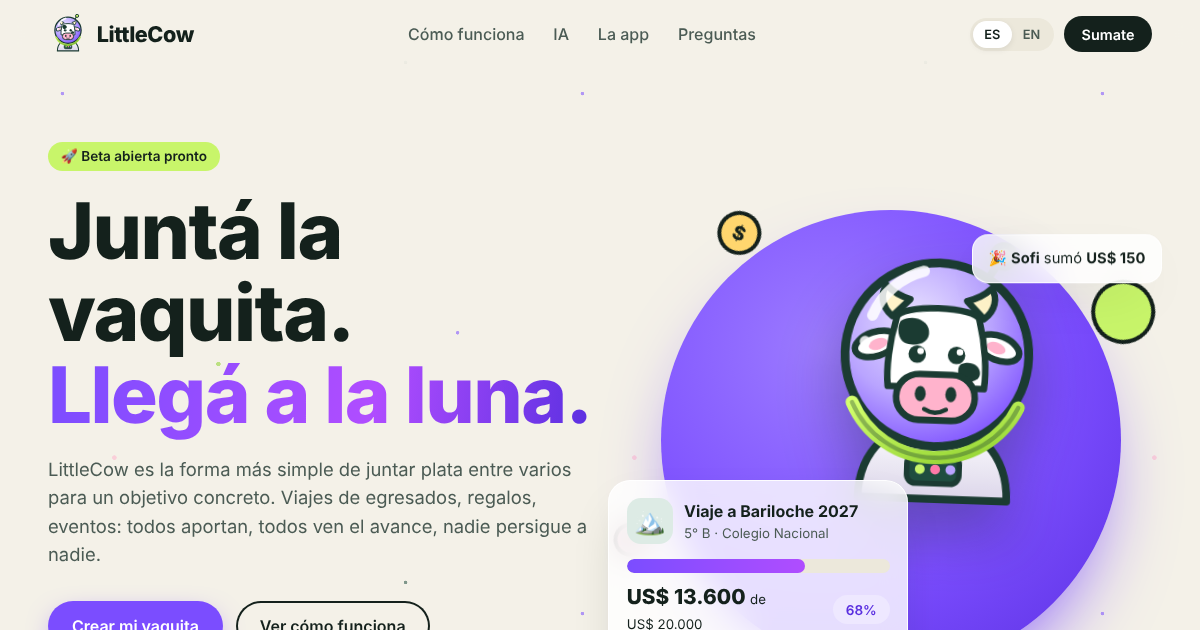
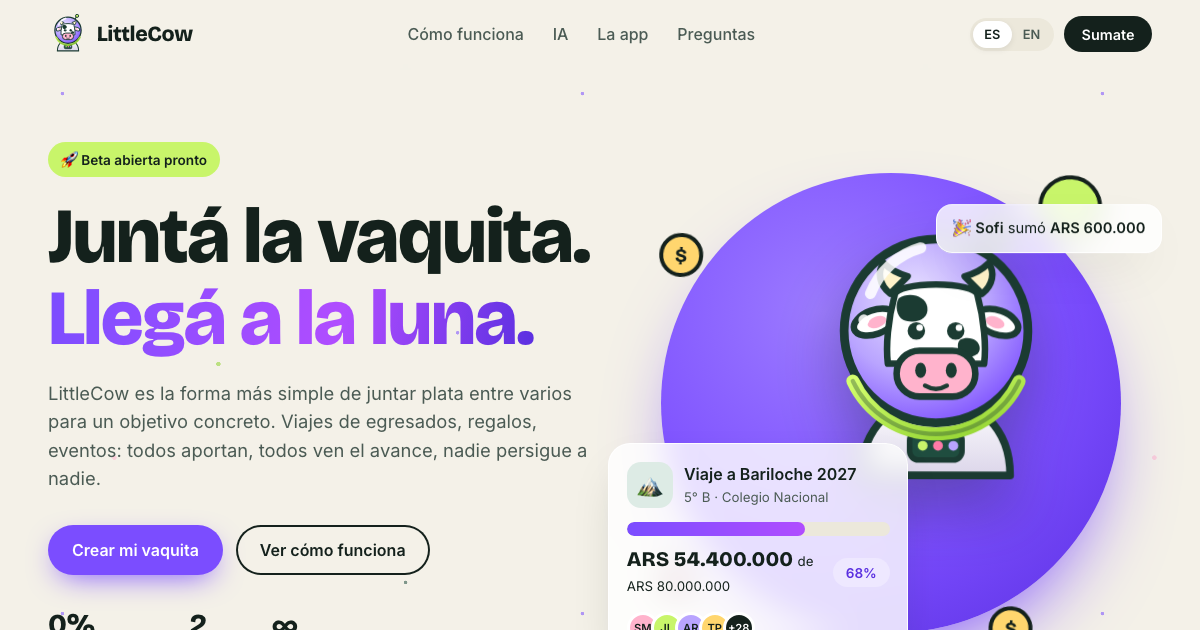
Default to Spanish and improve WhatsApp link preview
Refresh the share image with ARS amounts and add og:type, site_name,
locale and image size/type tags; version the image URL to bust caches.

diff --git a/index.html b/index.html
@@ -13,11 +13,23 @@
   <link rel="apple-touch-icon" href="assets/icons/apple-touch-icon.png">
   <meta name="apple-mobile-web-app-capable" content="yes">
   <meta name="apple-mobile-web-app-title" content="LittleCow">
+  <meta property="og:type" content="website">
+  <meta property="og:site_name" content="LittleCow">
+  <meta property="og:locale" content="es_AR">
+  <meta property="og:locale:alternate" content="en_US">
   <meta property="og:title" content="LittleCow — Juntá la vaquita 🚀">
   <meta property="og:description" content="Crowdfunding entre amigos para viajes de egresados, regalos y eventos.">
-  <meta property="og:image" content="https://littlecow.space/assets/og-image.png">
+  <meta property="og:image" content="https://littlecow.space/assets/og-image.png?v=2">
+  <meta property="og:image:secure_url" content="https://littlecow.space/assets/og-image.png?v=2">
+  <meta property="og:image:type" content="image/png">
+  <meta property="og:image:width" content="1200">
+  <meta property="og:image:height" content="630">
+  <meta property="og:image:alt" content="LittleCow: Juntá la vaquita. Llegá a la luna.">
   <meta property="og:url" content="https://littlecow.space/">
   <meta name="twitter:card" content="summary_large_image">
+  <meta name="twitter:title" content="LittleCow — Juntá la vaquita 🚀">
+  <meta name="twitter:description" content="Crowdfunding entre amigos para viajes de egresados, regalos y eventos.">
+  <meta name="twitter:image" content="https://littlecow.space/assets/og-image.png?v=2">
   <link rel="preconnect" href="https://fonts.googleapis.com">
   <link rel="preconnect" href="https://fonts.gstatic.com" crossorigin>
   <link href="https://fonts.googleapis.com/css2?family=Bricolage+Grotesque:opsz,wght@12..96,500;12..96,700;12..96,800&family=Inter:wght@400;500;600&display=swap" rel="stylesheet">

diff --git a/app.js b/app.js
@@ -120,8 +120,8 @@
   const qsa = (s, r = document) => [...r.querySelectorAll(s)];
   const store = { get(k){ try { return localStorage.getItem(k); } catch { return null; } }, set(k,v){ try { localStorage.setItem(k,v); } catch {} } };
 
-  let lang = store.get("lc-lang") || (navigator.language || "es").slice(0,2);
-  if (!I18N[lang]) lang = "en";
+  let lang = store.get("lc-lang") || "es";
+  if (!I18N[lang]) lang = "es";
 
   const locale = () => (lang === "es" ? "es-AR" : "en-US");
   /* demo amounts are stored in USD; the Spanish version shows them as realistic ARS figures */
